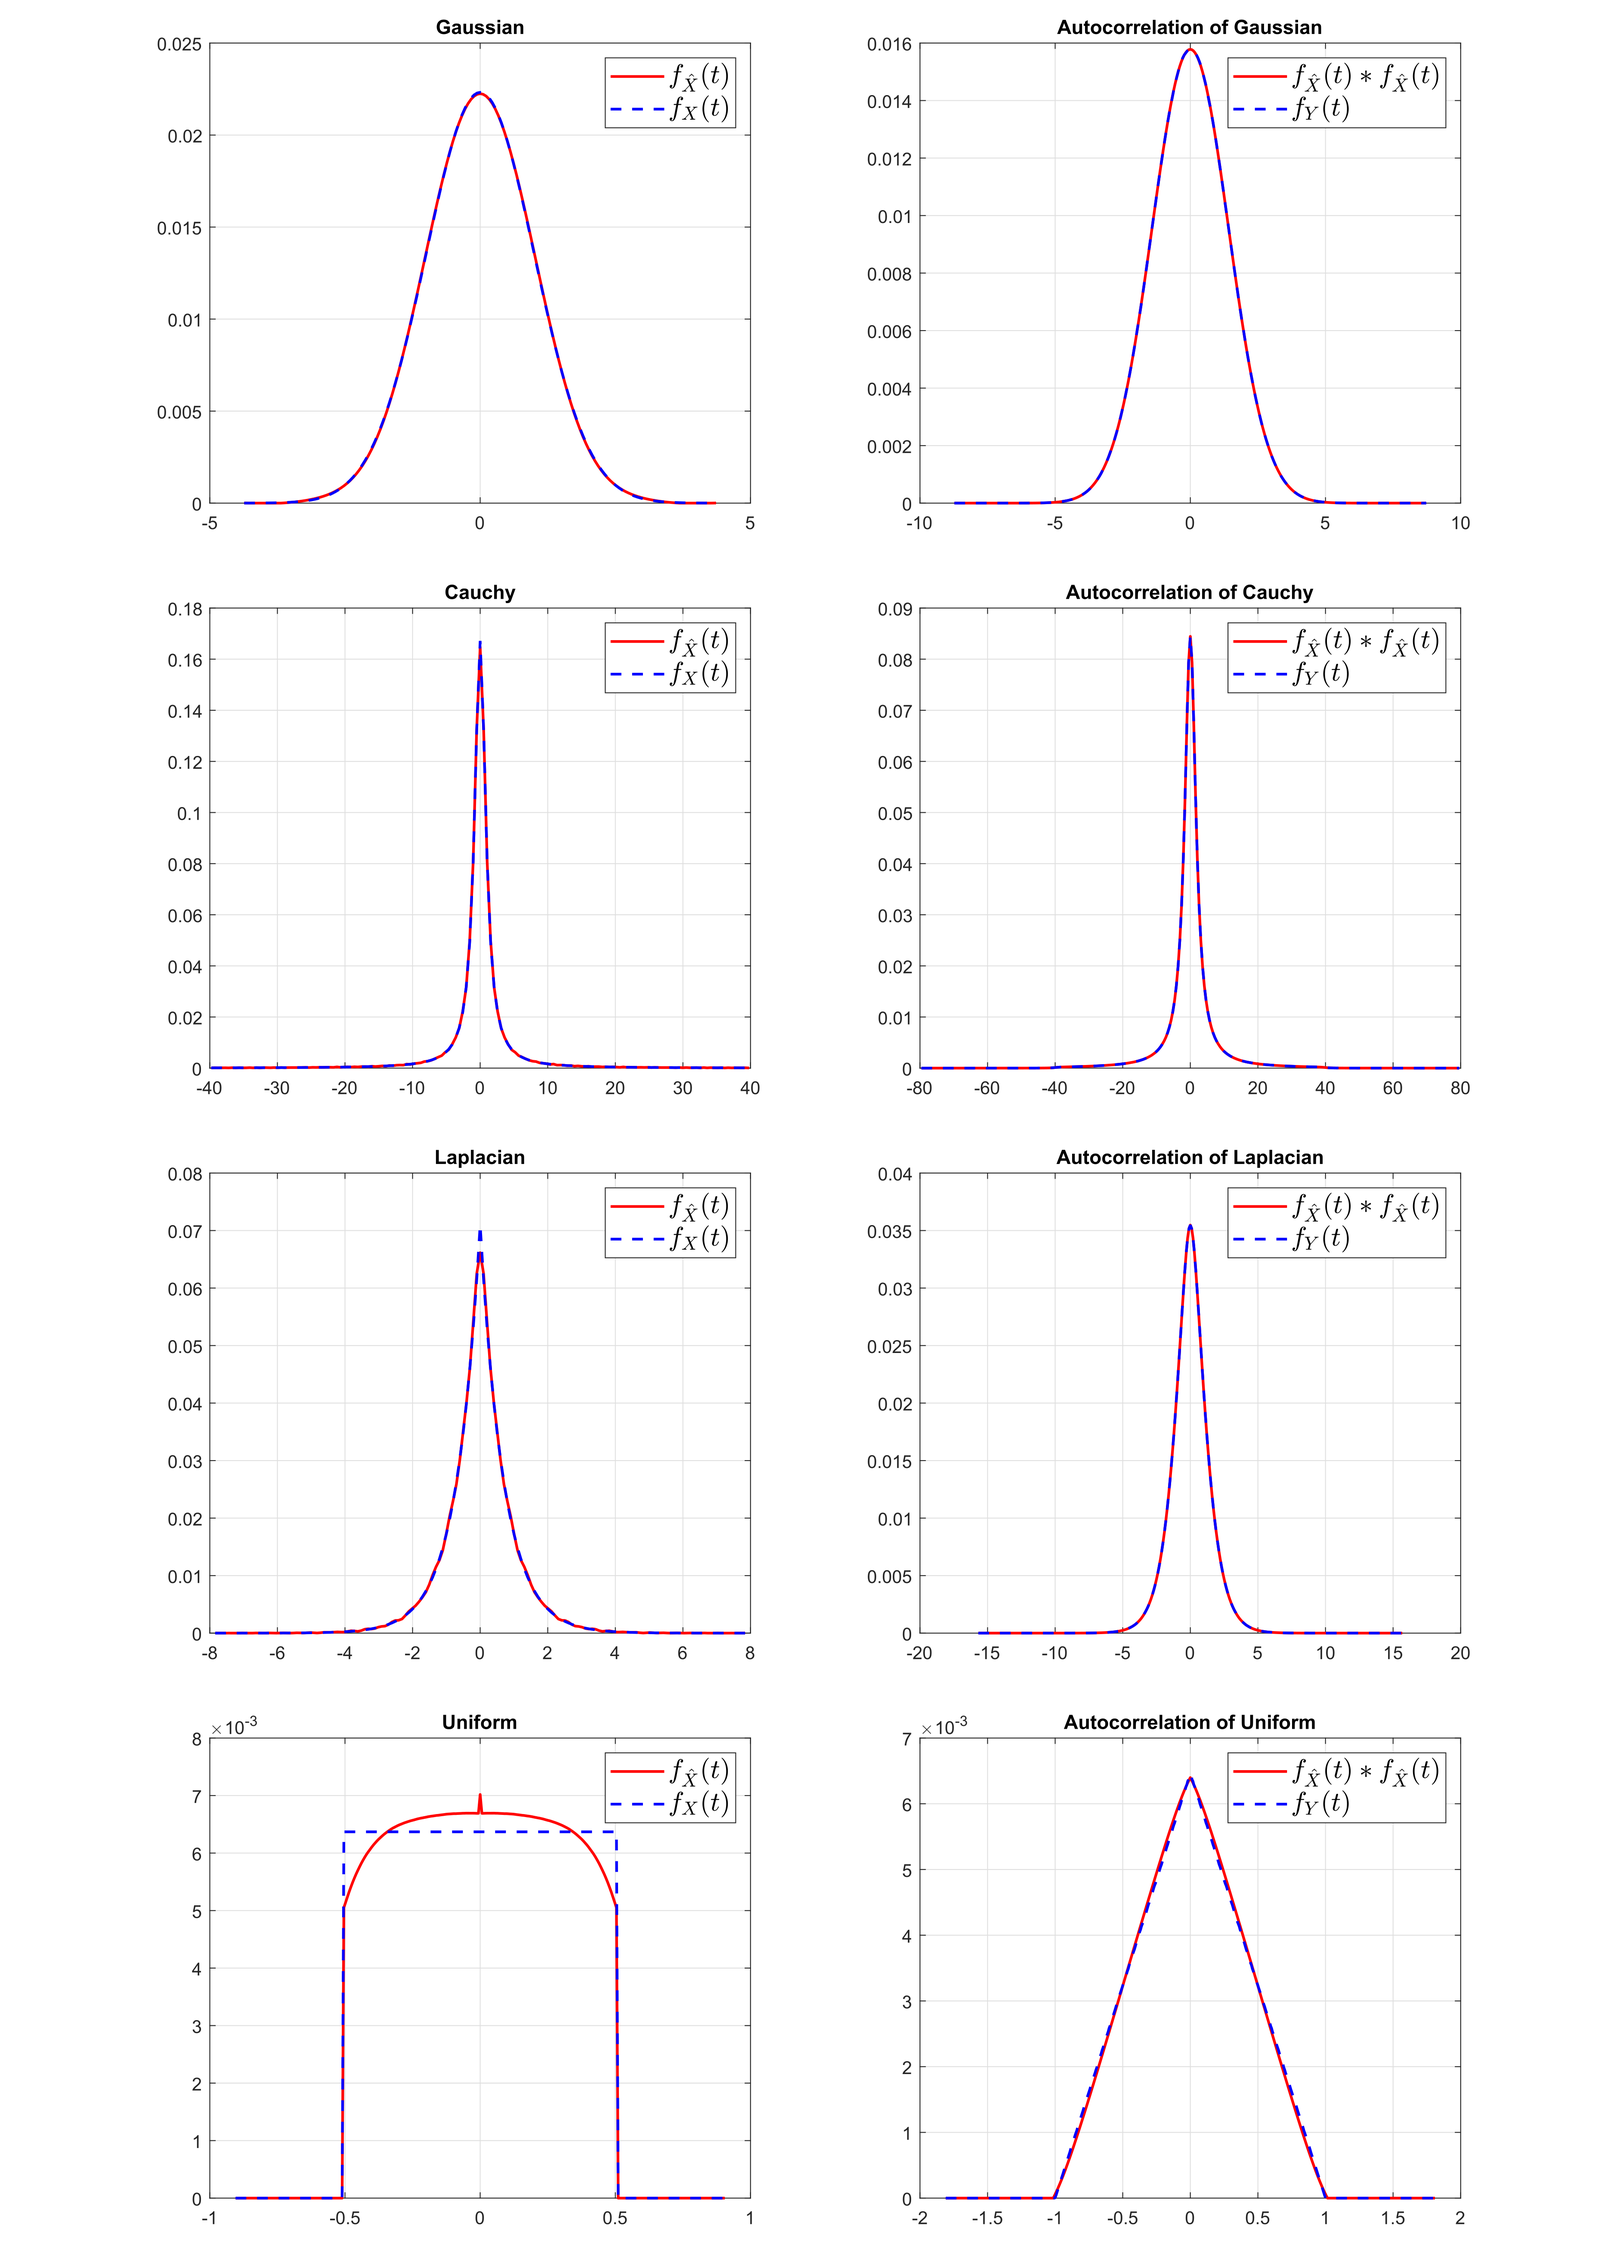
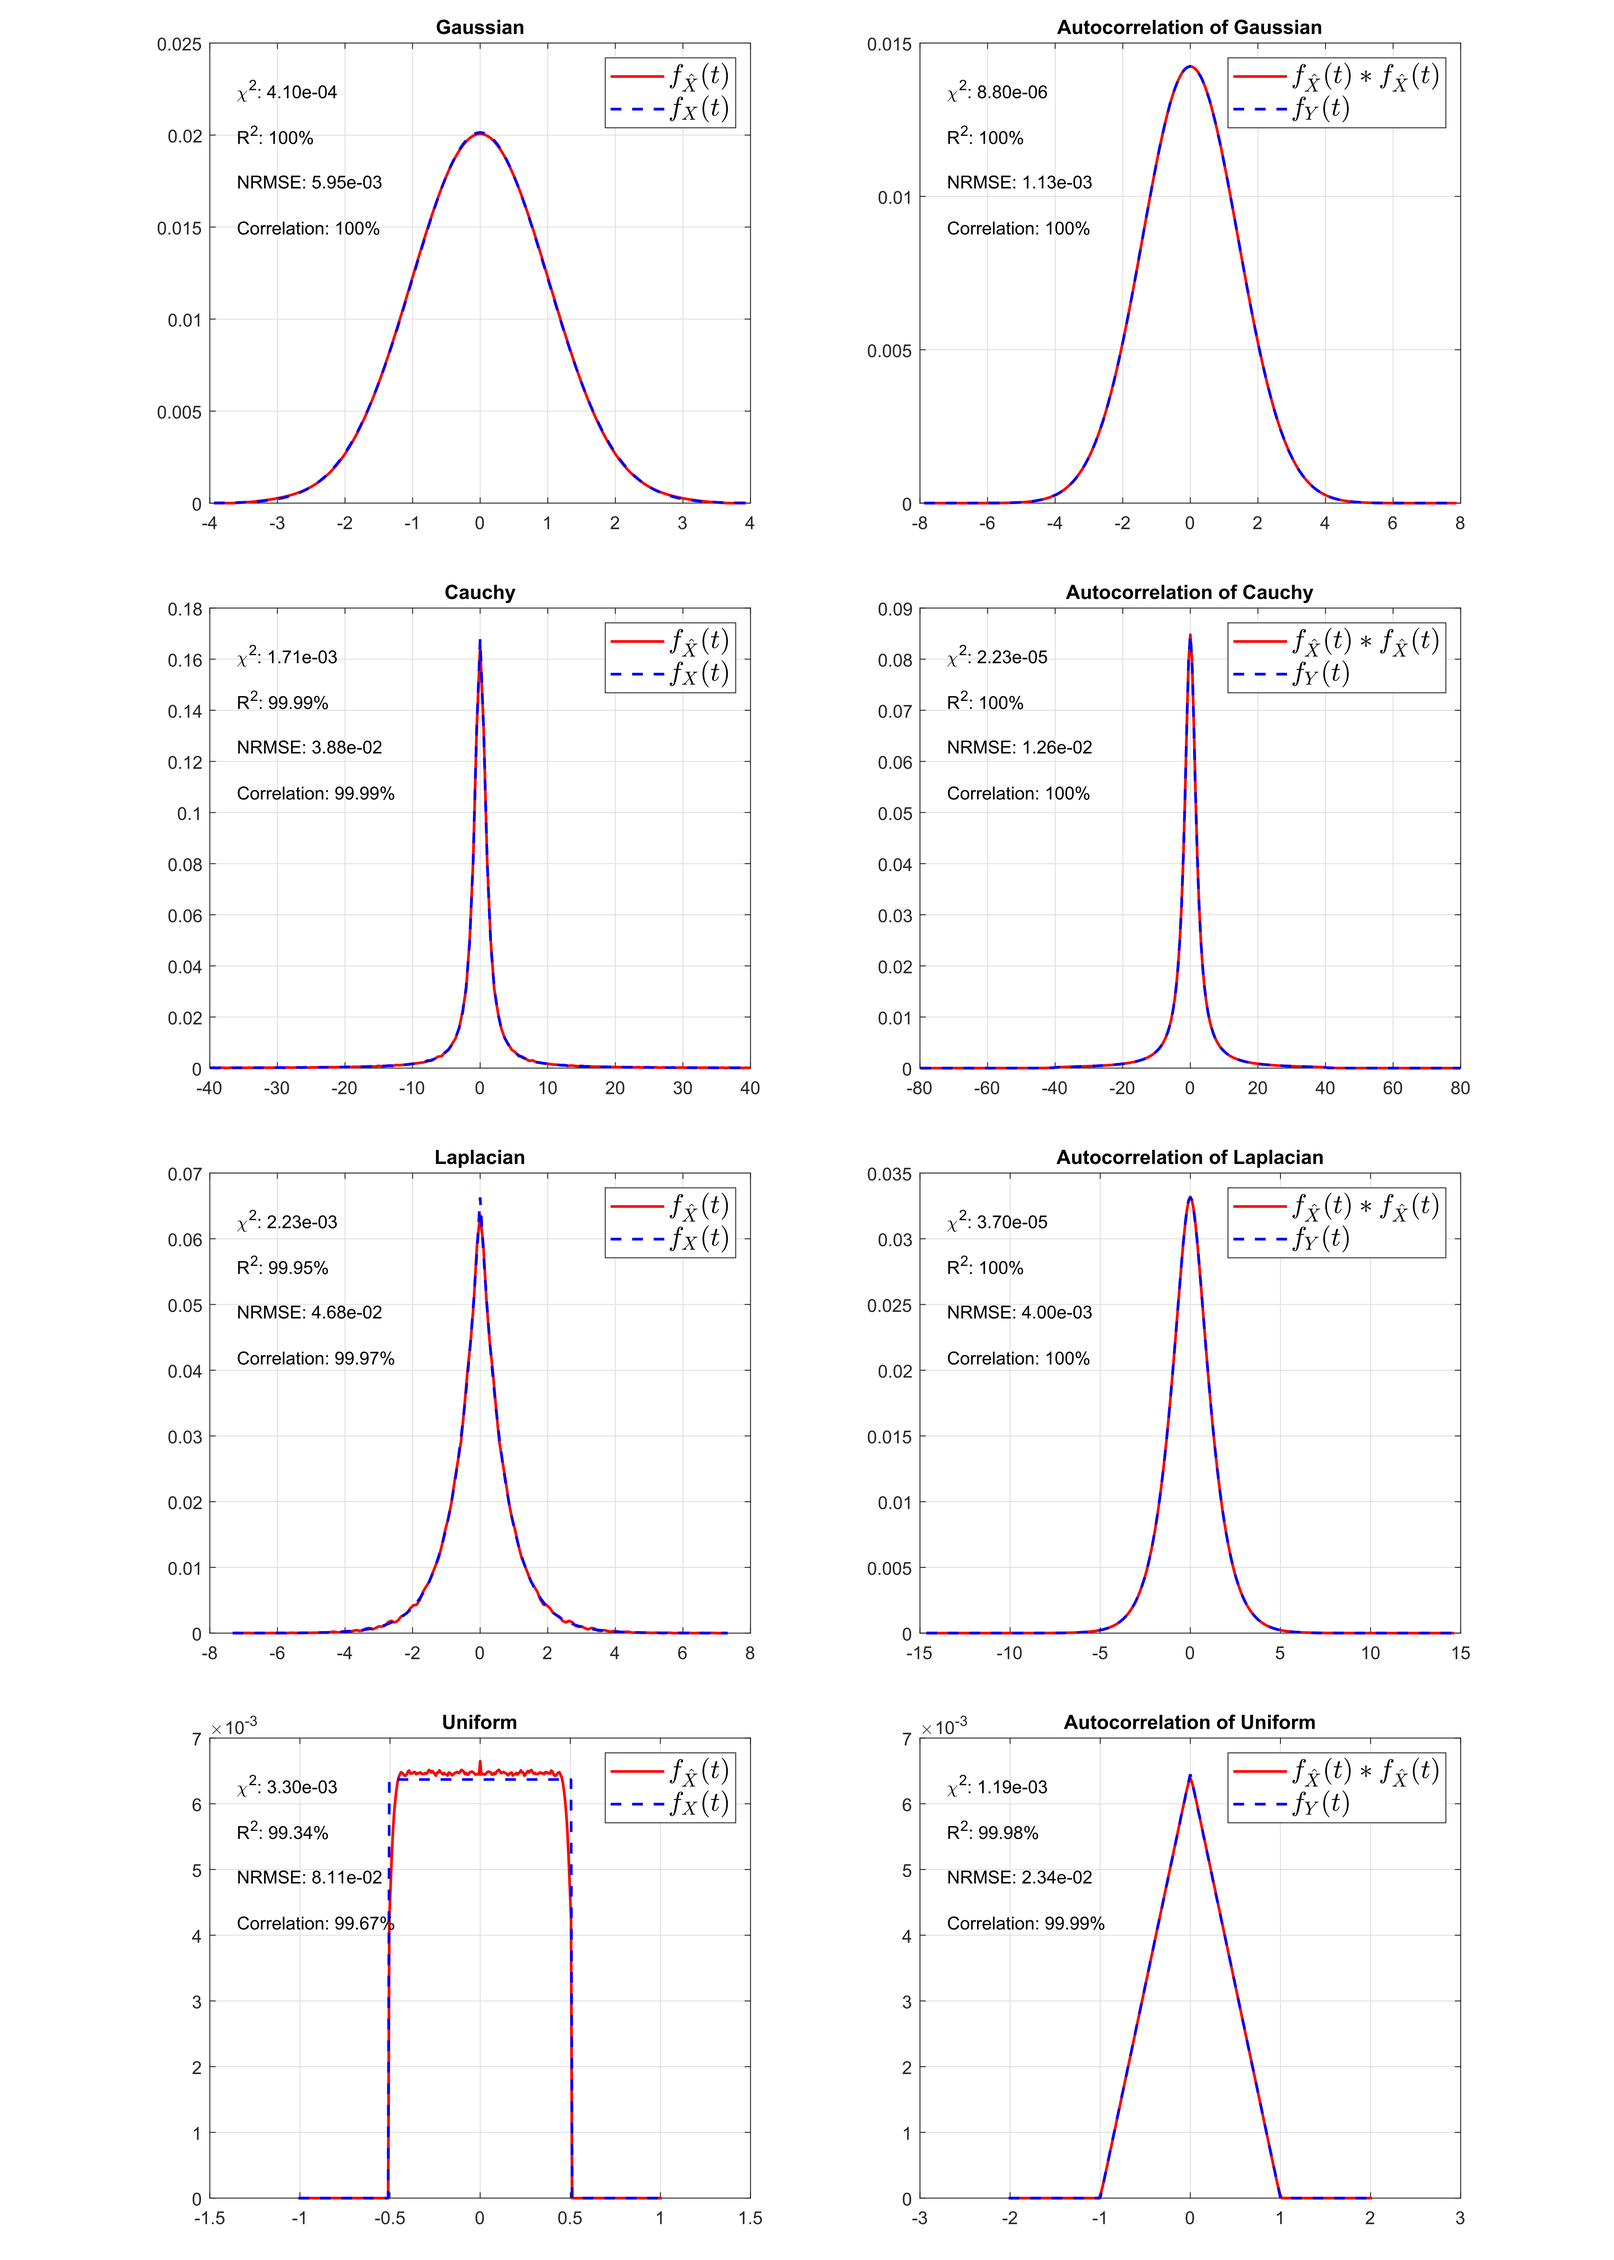
Update Tikhonov regularization

diff --git a/src/refine_tik.m b/src/refine_tik.m
@@ -1,4 +1,4 @@
-function [X_optimal] = refine(pdf,X,weightType,nonincreasing)
+function [X_optimal] = refine_tik(pdf,X,sample_size,weightType,nonincreasing)
 % The recovered solution from deautocorrelation may not a true
 % pdf, need refine step to move into the possibility space.
 % weightType: 
@@ -9,6 +9,8 @@ function [X_optimal] = refine(pdf,X,weightType,nonincreasing)
 %       1: Set the refined distribution nonincreasing from origin.
 %       0: No limitation on the monotonicity.
 
+% errorbound = 7e-5;
+errorbound = 10^(-0.15-0.5*log10(sample_size));
 if(~exist('weightType','var'))
     weightType = 'Average';
 end
@@ -44,6 +46,8 @@ ub = [];
 nonlcon = [];
 
 weightMatrix = ones(size(pdf)); % defined by users
+weightMatrix2 = 2*ones(1,N_X+1);
+weightMatrix2(1) = 1;
 switch weightType
     case 'Average'
         weightMatrix = ones(size(pdf));
@@ -58,19 +62,36 @@ end
 % find local optimal
 options = optimoptions(@fmincon,'Display','off','Algorithm','sqp','MaxIterations',1000);   
 X_star = X0;
-for k = 1:1
-    alpha = 0.5;
-    fun = @(x) sum(abs(pdf-conv([flipud(x(2:end));x],[flipud(x(2:end));x])).^2.*weightMatrix) + alpha^k*sum((x-X_star).^2); % objective function
+t1 = 1.01;
+t2 = 3;
+alpha = 0.5; %(from 0 to 1)
+k = 2;
+lastError = 1;
+while(1)
+    fun = @(x) sum(abs(pdf-conv([flipud(x(2:end));x],[flipud(x(2:end));x])).^2.*weightMatrix) + alpha*weightMatrix2*((x-X_star).^2); % objective function
     [X_new,val] = fmincon(fun,X0,A,b,Aeq,beq,lb,ub,nonlcon,options);
-    X0 = X_new;
+    X_optimal = [flipud(X_new(2:end));X_new];
+    error = sqrt(sum((pdf - conv(X_optimal,X_optimal)).^2));
+    if(alpha>=1 || abs(lastError-error)/error < 1e-2 ||error>=t1*errorbound && error<=t2*errorbound)
+        break;
+    else
+        if(error<t1*errorbound)
+            % increase alpha
+            alpha = alpha * k;
+        else                            % error>t2*errorbound)
+            % decrease alpha
+            alpha = alpha / k;
+        end
+    end
+    lastError = error;
 end
-X_optimal = [flipud(X_new(2:end));X_new];
-X_optimal(X_optimal<0)=0;
-figure;
-plot([-N_X:N_X],X,'LineWidth',1.5);
-hold on;
-plot([-N_X:N_X],X_optimal,'LineWidth',1.5);
-legend('Before refine','After refine');
-grid on;
+
+X_optimal(X_optimal<0)=0;   % in case still has negative values
+% figure;
+% plot([-N_X:N_X],X,'LineWidth',1.5);
+% hold on;
+% plot([-N_X:N_X],X_optimal,'LineWidth',1.5);
+% legend('Before refine','After refine');
+% grid on;
 end
 end

diff --git a/src/simulation_nmr.m b/src/simulation_nmr.m
@@ -6,9 +6,10 @@ clc;
 
 %% Parameters
 SampleSize = [10000,10000];
-type = 'Cauchy'; 
+type = 'Uniform'; 
 
 tic;
+add_zero = 0;
 switch type
     case 'Uniform'
         data = rand(SampleSize);
@@ -16,7 +17,7 @@ switch type
         N_X = (length(Recover_Sample)-1)/2;
         Recover_Ex = ones(2*N_X+1,1)/(2*N_X+1);
         % for display, add zeros for uniform
-        add_zero = round(N_X*0.8);  
+        add_zero = N_X;  
         Recover_Ex = [zeros(add_zero,1);Recover_Ex;zeros(add_zero,1)];
         Recover_Sample = [zeros(add_zero,1);Recover_Sample;zeros(add_zero,1)];
         pdf = [zeros(2*add_zero,1);pdf;zeros(2*add_zero,1)];
@@ -76,6 +77,23 @@ legend({'$f_{\hat{X}}(t)$','$f_{X}(t)$'},'Interpreter','latex','FontName', 'Cali
 set(f2,'Position',[760,300,1200,420]);
 grid on;
 title(type);
+%% metric
+N = length(Recover_Sample);
+a = Recover_Sample;
+b = Recover_Ex;
+gof1.sse = sum((a-b).^2);
+gof1.chisquare = nansum((a-b).^2./b);
+gof1.rsquare = (N*a'*b-1).^2 / (N*sum(a.^2) -1)/(N*sum(b.^2)-1);
+gof1.nrmse = sqrt(gof1.sse/N)*N;
+c1 = a - 1/N;
+c2 = b - 1/N;
+gof1.cof = c1'*c2/sqrt(c1'*c1*c2'*c2);
+ax = gca;
+y_max = max(ax.YLim);
+x_p = ones(1,4)*(ax.XLim(1)*0.9);
+y_p = [9:-1:6]/10*y_max;
+str = {{['\chi^2: ',num2str(gof1.chisquare,'%.2e')]},{['R^2: ',num2str(gof1.rsquare*100,4),'%']},{['NRMSE: ',num2str(gof1.nrmse,'%.2e')]},{['Correlation: ',num2str(gof1.cof*100,4),'%']}};
+text(x_p,y_p,str);
 
 subplot(1,2,2)
 plot([-2*N_X:2*N_X]*binSize,conv(Recover_Sample,Recover_Sample),'r','Linewidth',1.5);
@@ -84,3 +102,24 @@ plot([-N0:N0]*binSize,pdf,'b--','Linewidth',1.5);
 legend({'$f_{\hat{X}}(t) * f_{\hat{X}}(t)$','$f_Y(t)$'},'Interpreter','latex','FontName', 'Calibri','FontSize',15);
 grid on;
 title(['Autocorrelation of ',type]);
+%% metric
+N = length(pdf);
+a = pdf;
+b = pdf_Ex;
+gof2.sse = sum((a-b).^2);
+gof2.chisquare = nansum((a-b).^2./b);
+gof2.rsquare = (N*a'*b-1).^2 / (N*sum(a.^2) -1)/(N*sum(b.^2)-1);
+gof2.nrmse = sqrt(gof2.sse/N)*N;
+c1 = a - 1/N;
+c2 = b - 1/N;
+gof2.cof = c1'*c2/sqrt(c1'*c1*c2'*c2);
+ax = gca;
+y_max = max(ax.YLim);
+x_p = ones(1,4)*(ax.XLim(1)*0.9);
+y_p = [9:-1:6]/10*y_max;
+str = {{['\chi^2: ',num2str(gof2.chisquare,'%.2e')]},{['R^2: ',num2str(gof2.rsquare*100,4),'%']},{['NRMSE: ',num2str(gof2.nrmse,'%.2e')]},{['Correlation: ',num2str(gof2.cof*100,4),'%']}};
+text(x_p,y_p,str);
+
+
+
+

diff --git a/src/deautocorrelation_for_distributions.m b/src/deautocorrelation_for_distributions.m
@@ -139,6 +139,23 @@ legend('Recovered pdf','Target pdf');
 axis([-B_x,B_x,0,max(X_optimal)*1.2]);
 title(type);
 grid on;
+N = length(X_optimal);
+a = X_optimal;
+b = pdf_0;
+gof1.sse = sum((a-b).^2);
+tmp = ((a-b).^2./b);
+gof1.chisquare = nansum(tmp(~isinf(tmp)));
+gof1.rsquare = (N*a'*b-1).^2 / (N*sum(a.^2) -1)/(N*sum(b.^2)-1);
+gof1.nrmse = sqrt(gof1.sse/N)*N;
+c1 = a - 1/N;
+c2 = b - 1/N;
+gof1.cof = c1'*c2/sqrt(c1'*c1*c2'*c2);
+ax = gca;
+y_max = max(ax.YLim);
+x_p = ones(1,4)*(ax.XLim(1)*0.9);
+y_p = [9:-1:6]/10*y_max;
+str = {{['\chi^2: ',num2str(gof1.chisquare,'%.2e')]},{['R^2: ',num2str(gof1.rsquare*100,4),'%']},{['NRMSE: ',num2str(gof1.nrmse,'%.2e')]},{['Correlation: ',num2str(gof1.cof*100,4),'%']}};
+text(x_p,y_p,str);
 set(f0,'Position',[200,300,560*3,420]);
 
 subplot(2,3,[2,5]);
@@ -149,6 +166,23 @@ legend('Autocorrelation of recovered pdf','Target Y');
 title('Autocorrelation');
 axis([-B_x2,B_x2,min(0,min(conv_X)*1.2),max(pdf)*1.2]);
 grid on;
+N = length(conv_X);
+a = conv_X;
+b = pdf;
+gof2.sse = sum((a-b).^2);
+tmp = ((a-b).^2./b);
+gof2.chisquare = nansum(tmp(~isinf(tmp)));
+gof2.rsquare = (N*a'*b-1).^2 / (N*sum(a.^2) -1)/(N*sum(b.^2)-1);
+gof2.nrmse = sqrt(gof2.sse/N)*N;
+c1 = a - 1/N;
+c2 = b - 1/N;
+gof2.cof = c1'*c2/sqrt(c1'*c1*c2'*c2);
+ax = gca;
+y_max = max(ax.YLim);
+x_p = ones(1,4)*(ax.XLim(1)*0.9);
+y_p = [9:-1:6]/10*y_max;
+str = {{['\chi^2: ',num2str(gof2.chisquare,'%.2e')]},{['R^2: ',num2str(gof2.rsquare*100,4),'%']},{['NRMSE: ',num2str(gof2.nrmse,'%.2e')]},{['Correlation: ',num2str(gof2.cof*100,4),'%']}};
+text(x_p,y_p,str);
 % set(f1,'Position',[760,300,560,420]);
 
 %% Single side
@@ -185,7 +219,7 @@ hold on;
 plot(0:N_X,Single_Pdf,'b--','Linewidth',1.5);
 hold on;
 plot([Thr_new,Thr_new],[0,1],'g--','Linewidth',1.5);
-legend('Recovered pdf','Target pdf','0.13%');
+legend('Recovered pdf','Target pdf','0.26%');
 title('Single side');
 grid on;
 axis([0,B_x,0,1]);

diff --git a/src/Signal_ratio_test_display.m b/src/Signal_ratio_test_display.m
@@ -1,0 +1,61 @@
+close all;
+clear all;
+clc;
+
+%% Parameters
+f0 = figure(1);
+set(f0,'Position',[200,300,560,420]);
+grid on;
+legend_txt = cell(0);
+% freqs = fliplr([1 2 5 10]);
+% SNRs = [5,7.5,10,15];
+Active_ratios = [1/50,1/100,1/500,1/1000];
+for k = 1:numel(Active_ratios)
+SNR = 10;
+freq = 2;
+Active_ratio = Active_ratios(k);
+signal_peak = 1;
+N = 500*500;
+T = 200;
+Ns = 50/Active_ratio;
+SampleSize = [N,T];
+
+%% noise generation
+% noise_dif = randn(SampleSize)*sqrt(2);
+% [pdf_n,binSize] = getDistribution(noise_dif);
+binSize = 0.05;
+N0 = 8/binSize;
+pdf_n = zeros(2*N0+1,1);
+sigma = sqrt(2);
+for i = -N0:N0
+    pdf_n(i+N0+1) = 1/2/pi/sigma*exp(-(i*binSize)^2/2/sigma^2);
+end
+pdf_n = pdf_n/sum(pdf_n);
+
+%% signal
+sigma = 20;
+interval = round(sigma/freq*5);
+signal = zeros(1,2*Ns+1);
+for i = -Ns:Ns
+    signal(i+Ns+1) = 1/2/pi/sigma*exp(-(i)^2/2/sigma^2); % Gaussian
+end
+signal = signal/max(signal)*sqrt(10^(SNR/10))*sqrt(2);
+signal_res = signal(1+interval:interval:end) - signal(1:interval:end-interval);
+[pdf_s,binSize] = getDistribution(signal_res,binSize);
+pdf = conv(pdf_n,pdf_s);
+Recover_Sample = pdf_recover(pdf);
+N_X = (length(Recover_Sample)-1)/2;
+hold on;
+plot([-N_X:N_X]*binSize,Recover_Sample,'LineWidth',1.5);
+legend_txt(k) = {(['Ratio: 1/',num2str(round(1/Active_ratio))])};
+end
+
+hold on;
+pdf_ex = zeros(N0+1,1);
+for i = -N0/2:N0/2
+    pdf_ex(i+N0/2+1) = 1/2/pi*exp(-(i*binSize)^2/2);
+end
+pdf_ex = pdf_ex/sum(pdf_ex);
+plot([-N0/2:N0/2]*binSize,pdf_ex,'LineWidth',1.5)
+legend_txt(k+1) = {'True Gaussian'};
+legend(legend_txt);

diff --git a/src/pdf_recover.m b/src/pdf_recover.m
@@ -1,4 +1,4 @@
-function [X_optimal] = pdf_recover(pdf,weightType,nonincreasing)
+function [X_optimal] = pdf_recover(pdf,sample_size,weightType,nonincreasing)
 % The recovered solution from deautocorrelation may not a true
 % pdf, need refine step to move into the possibility space.
 % weightType: 
@@ -16,10 +16,14 @@ end
 if(~exist('nonincreasing','var'))
     nonincreasing = 0;
 end
+if(~exist('sample_size','var'))
+    sample_size = 0;
+end
 
 %% recover pdf
 X = deautocorrelation(pdf);
 %% refine
-X_optimal = refine(pdf,X,weightType,nonincreasing);
+% X_optimal = refine(pdf,X,weightType,nonincreasing);
+X_optimal = refine_tik(pdf,X,sample_size,weightType,nonincreasing);
 
 end

diff --git a/src/nmr.m b/src/nmr.m
@@ -16,6 +16,6 @@ else
     dif = data(:,2:end) - data(:,1:end-1);
 end
 [pdf,binSize] = getDistribution(dif);
-X_optimal = pdf_recover(pdf,weightType,nonincreasing);
+X_optimal = pdf_recover(pdf,numel(data(:)),weightType,nonincreasing);
 
 end
